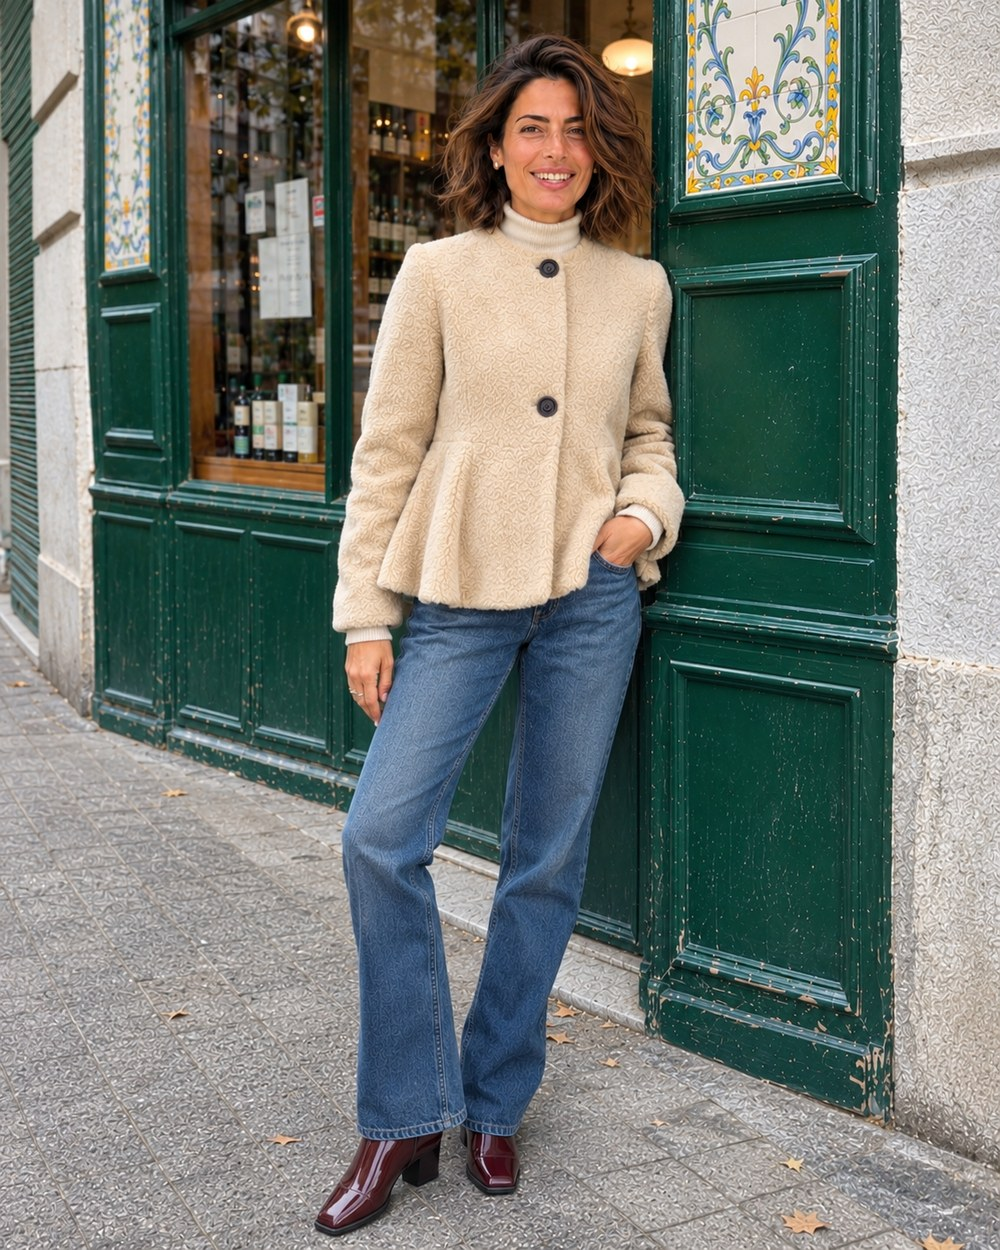
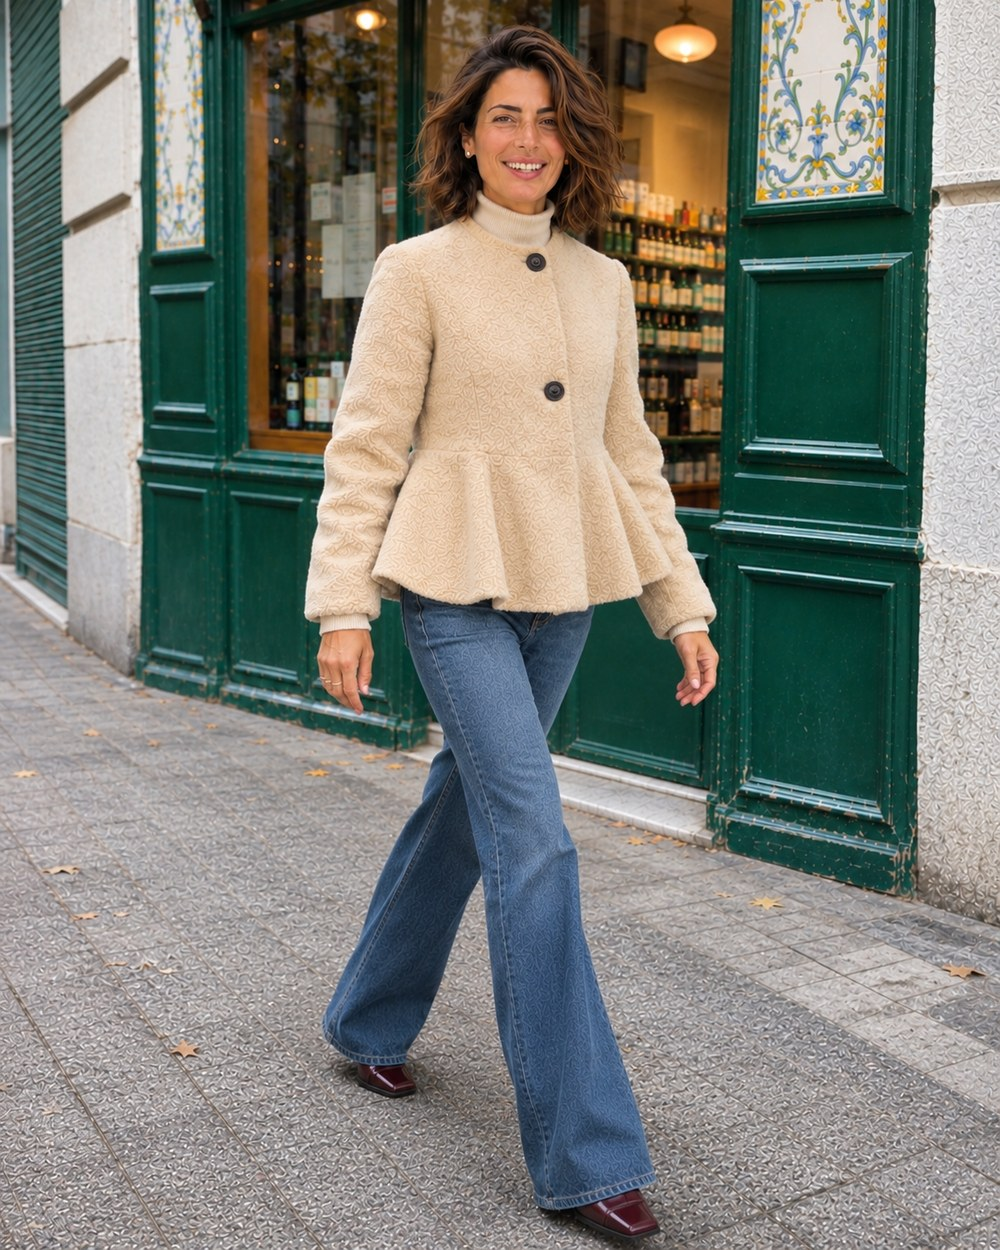
Shop: Peplum look with Zara flare jeans, new cover

diff --git a/index.html b/index.html
@@ -56,10 +56,10 @@ a:focus-visible{outline:2px solid var(--accent);outline-offset:2px}
 <script>
 /* ADD NEW LOOKS AT THE TOP OF THIS LIST */
 const LOOKS = [
-  {id:"peplum", kicker:"Wednesday", title:"Peplum, bootcut and a little shine", date:"19 Nov 2026", img:"peplum.jpg", items:[
+  {id:"peplum", kicker:"Wednesday", title:"Peplum, flares and a little shine", date:"19 Nov 2026", img:"peplum.jpg", items:[
     {b:"Zara", n:"Faux fur peplum jacket, ecru", p:"€59.95", u:"https://www.zara.com/es/es/cazadora-peplum-efecto-pelo-p06318346.html"},
     {b:"Uniqlo", n:"100% merino ribbed turtleneck, off white", p:"€39.90", u:"https://www.uniqlo.com/es/es/products/E450514-000/00?colorDisplayCode=01"},
-    {b:"Levi's", n:"725 High Rise Bootcut jeans, blue", p:"€120", u:"https://www.elcorteingles.es/moda-mujer/A58227814-azul-pr-vaquero-campana-725-high-rise-bootcut-de-mujer-tiro-alto/"},
+    {b:"Zara", n:"ZW Collection high-rise flare jeans, blue", p:"€39.95", u:"https://www.zara.com/es/es/jeans-zw-collection-flare-tiro-alto-p04001059.html"},
     {b:"Mim", n:"Square-toe patent ankle boots, burgundy", p:"€72.99", u:"https://www.elcorteingles.es/moda-mujer/MP_0022233_15068423356802-burdeos-pr-botines-de-mujer-de-cana-baja-con-punta-cuadrada/"},]},
   {id:"redknot", kicker:"Monday", title:"White, black and a red knot", date:"17 Nov 2026", img:"redknot.jpg", items:[
     {b:"Mango", n:"Manteco wool coat with funnel collar, black", p:"€159.99", u:"https://shop.mango.com/es/es/p/mujer/abrigos/abrigos/abrigo-lana-manteco-cuello-chimenea/37027806/99/00"},
